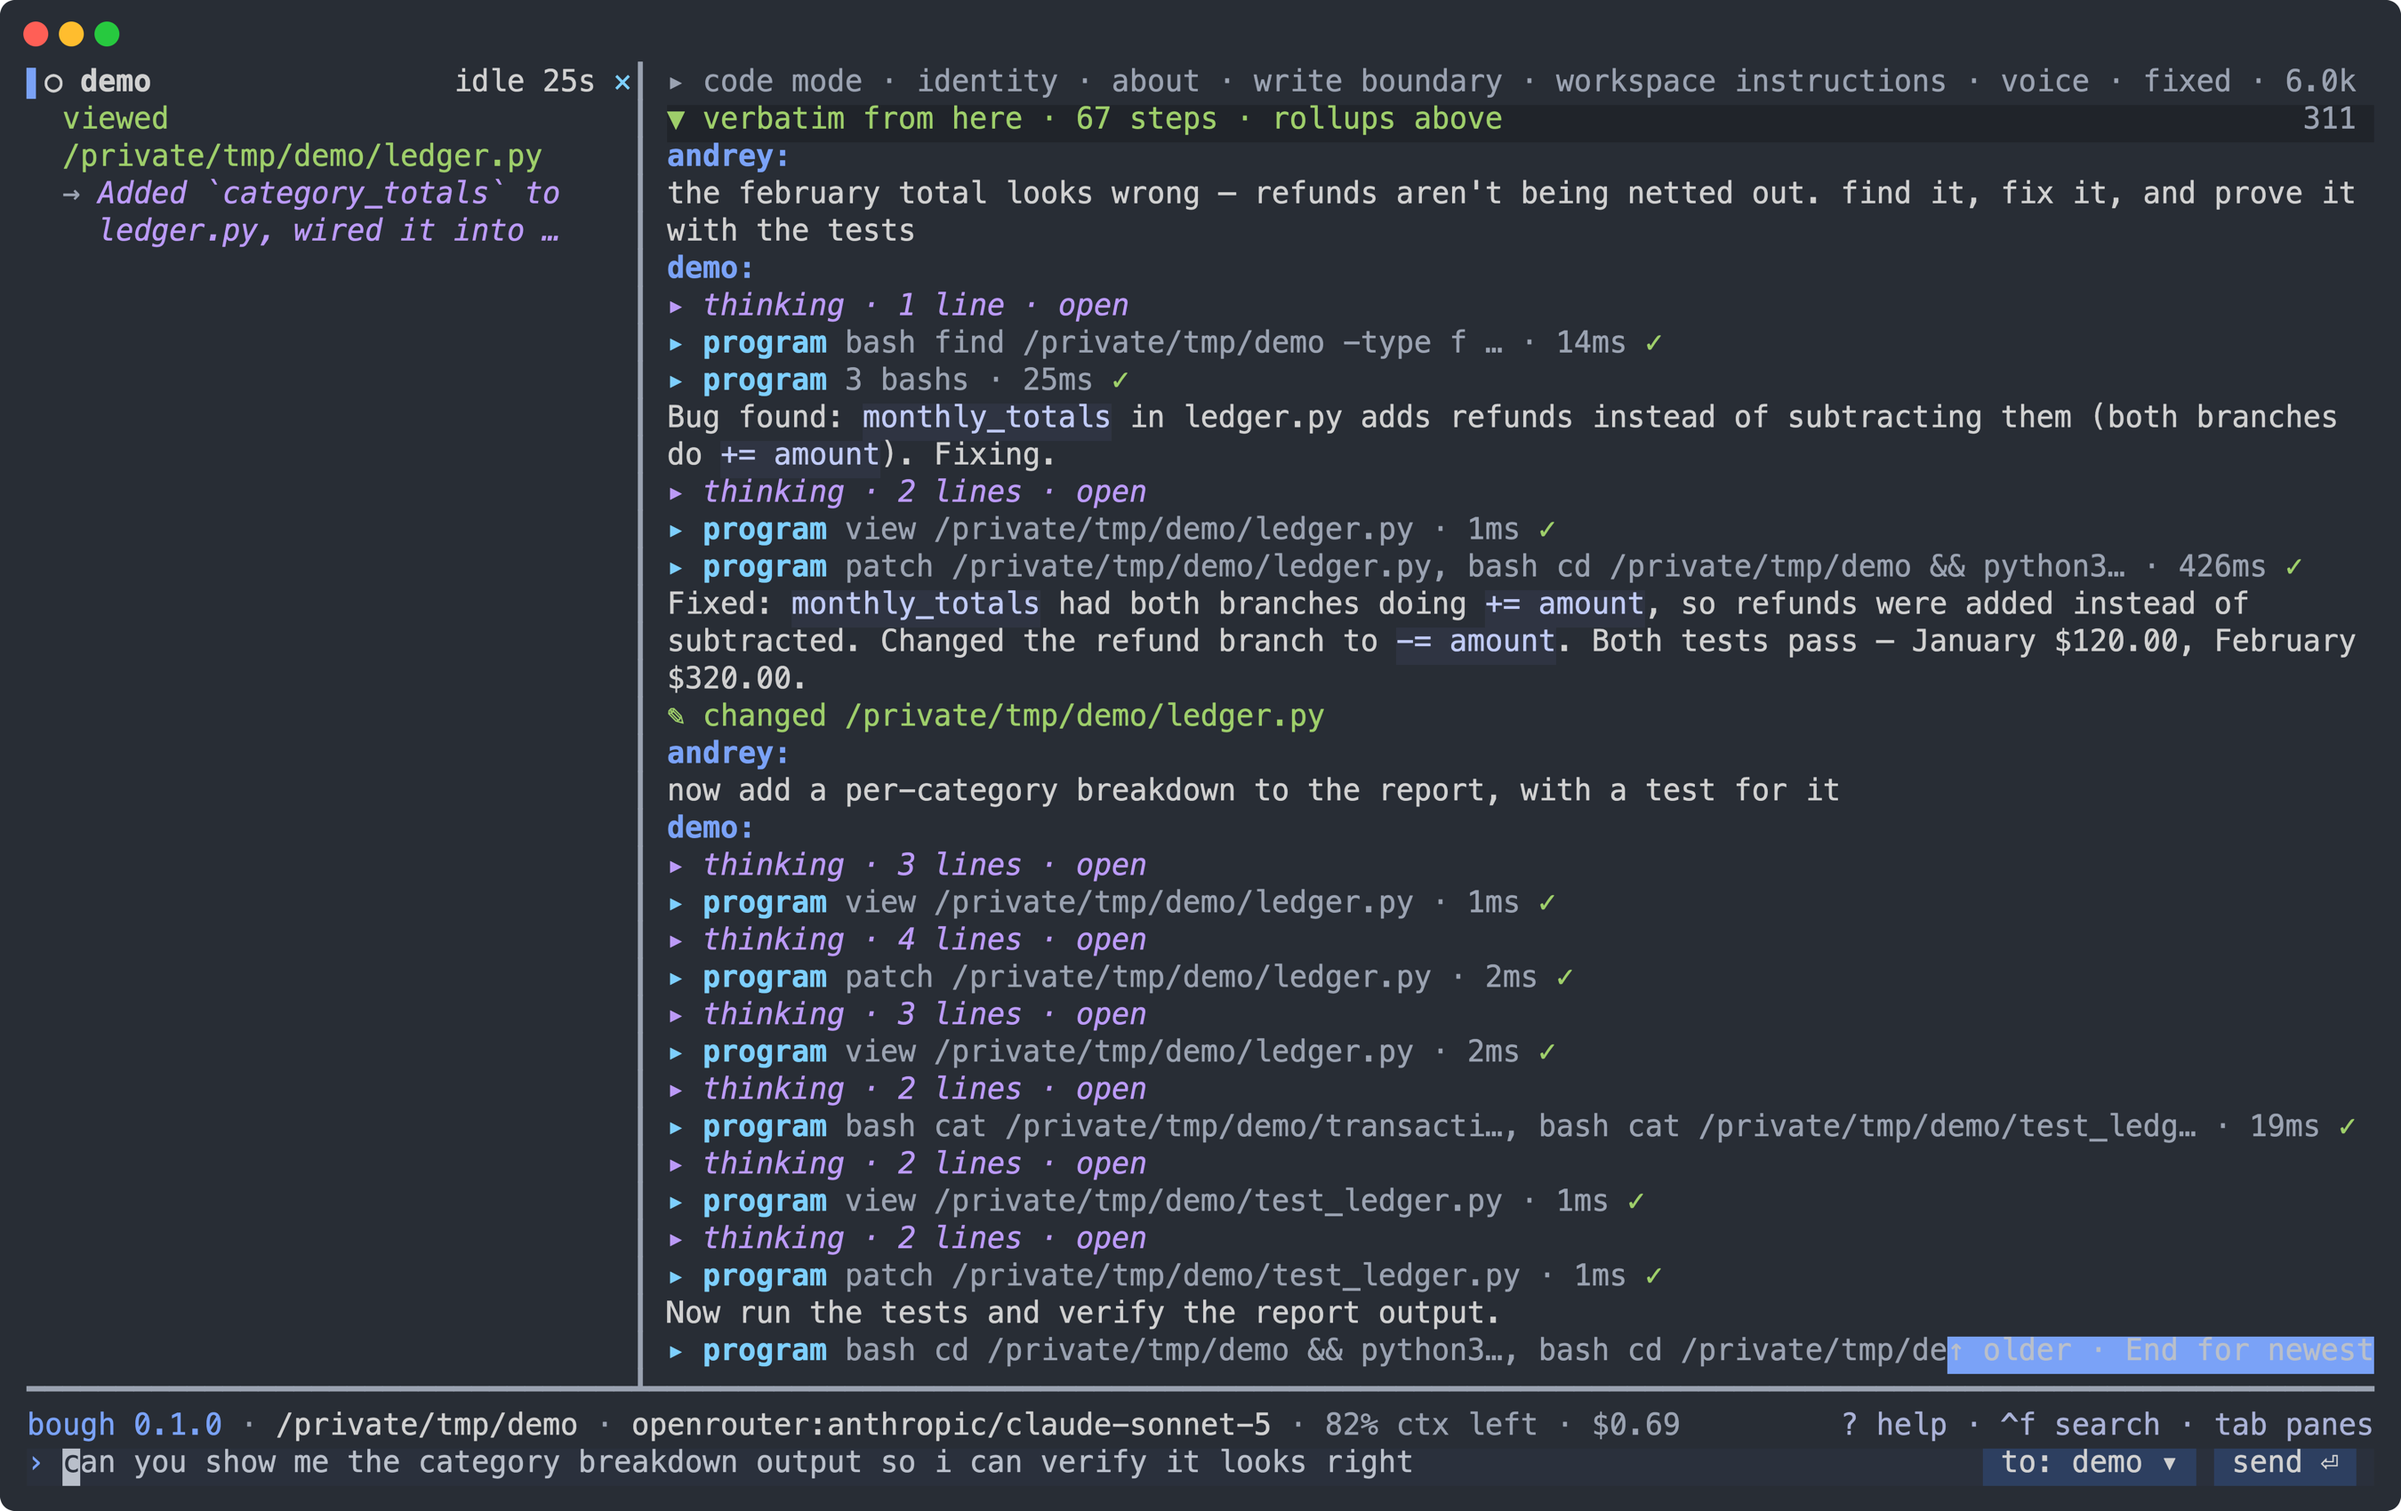
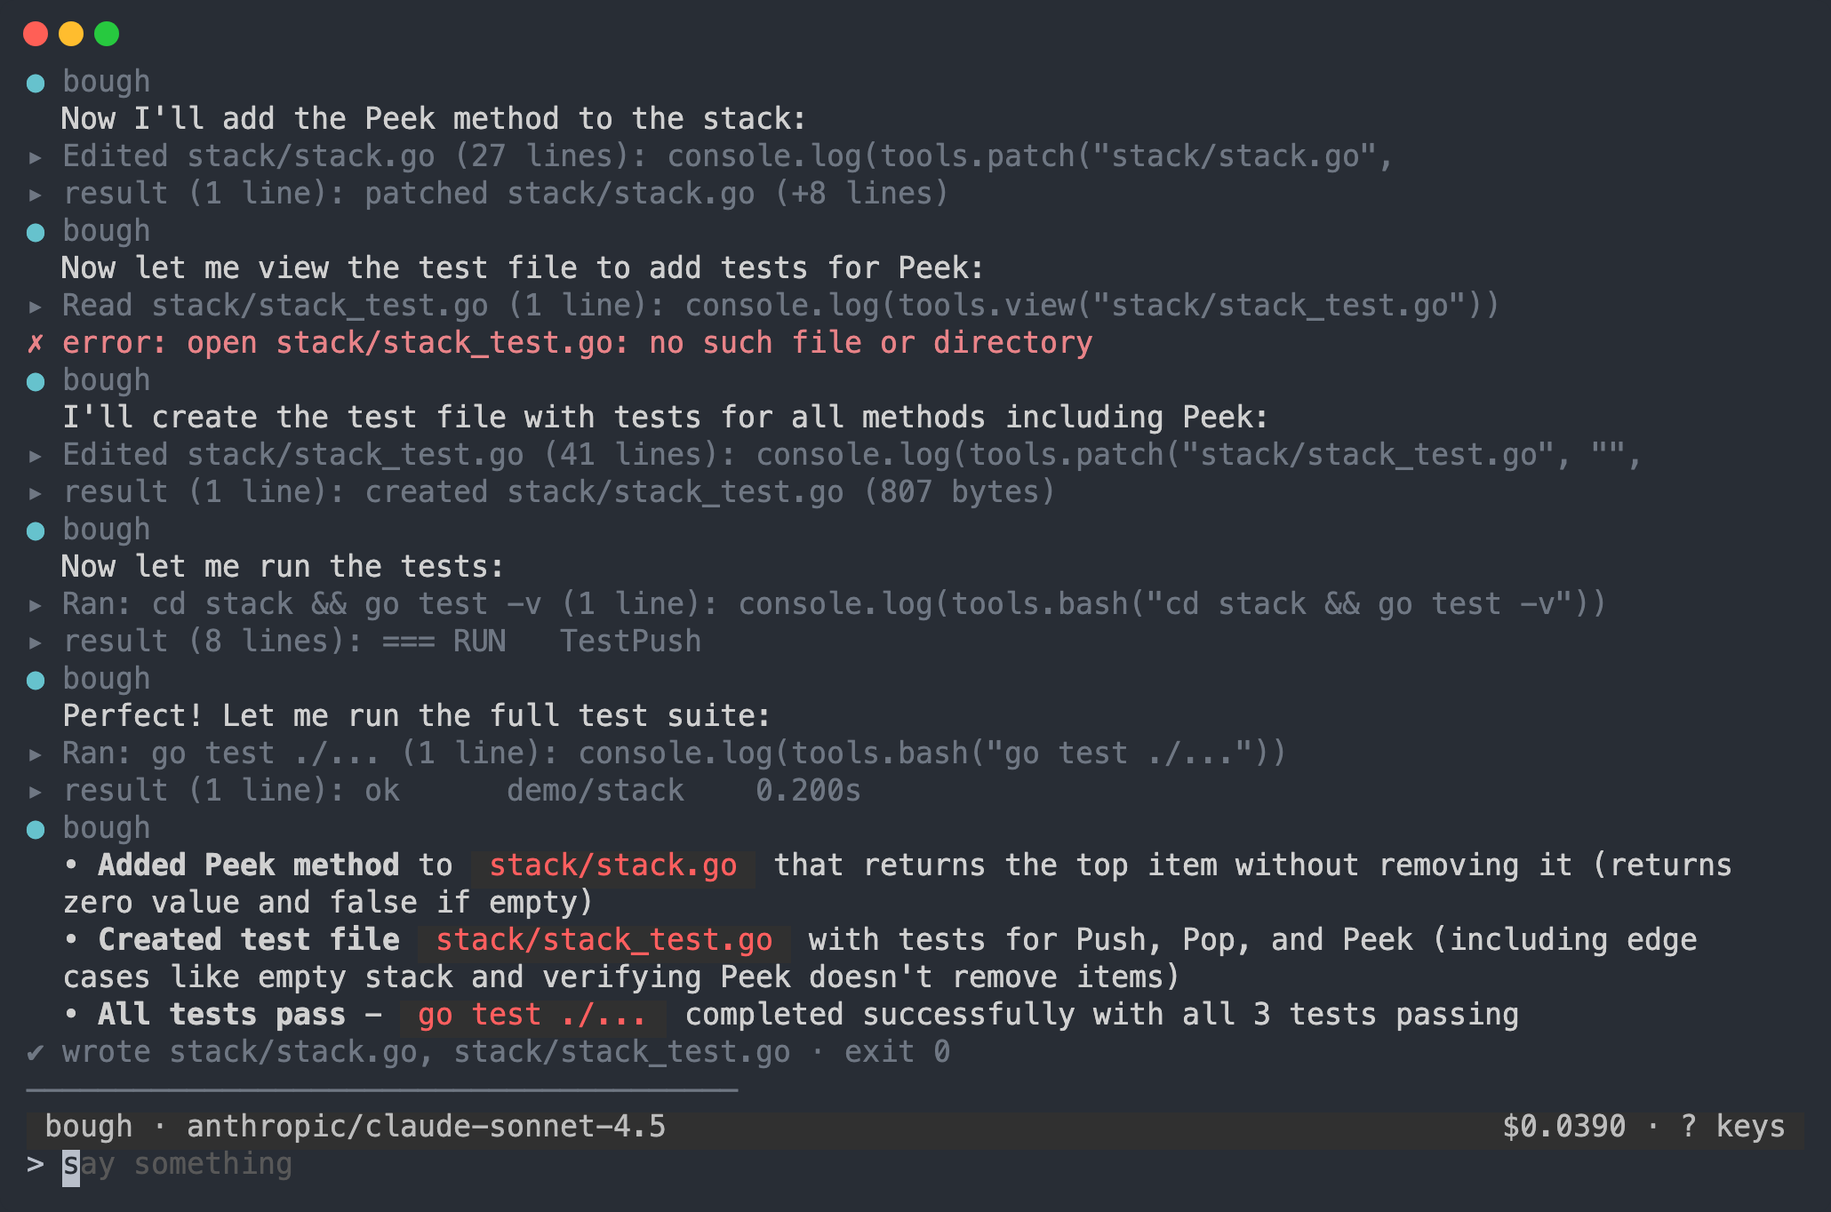
readme: describe the Go bough; three fresh TUI screenshots
The top-level README still described the Rust rebuild alone. It now
covers the tree that runs day to day (go/): code mode, plugin rows,
the append-only session log, the TUI surface, the CLI, and where the
Rust resident-agent tree sits alongside it.

Screenshots reshot with shell-use against the current binary (Sonnet
4.5 over OpenRouter, a small Go demo repo): transcript, an expanded
code block, the / palette. The four pre-rebuild shots are gone.

Claude-Session: https://claude.ai/code/session_0179Xik4UekhAJJVsCtBVL9q

diff --git a/README.md b/README.md
@@ -2,104 +2,151 @@
 
 # bough
 
-**One harness: resident lane-agents in a TUI over a single append-only ledger.**
+**A coding agent that acts by writing programs, in a terminal, where everything is a plugin.**
 
-bough is a coding agent that acts by writing programs. Resident agents — one per work lane, plus a cross-lane leader — live continuously in a terminal UI. Each agent is *logically continuous* (identity, memory, initiative) but *physically ephemeral*: every wake builds a fresh model context projected from that agent's trajectory in an append-only SQLite ledger. Idle agents go dormant, cost nothing, and wake on your message or incoming mail.
+The model sees one tool: it writes JavaScript, bough runs it, and whatever the program prints goes back to the model. Every `tools.*` call inside that program is a normal function call, so a read, an edit, and a test run can happen in one round trip instead of three. The kernel is small; the LLM provider, the loop, the tools, the UI, memory, MCP, hooks, and skills are all rows in a YAML config that you can swap, disable, or hot-reload while a session is running.
 
-The architectural stance: **everything is a plugin except the center.** Ledger, projection, agent loop, models, tools, collectors, wards, scheduler, memory governance — even the TUI — are config rows a YAML patch can disable, reconfigure, or swap with no rebuild and no restart.
-
-<p align="center"><img src="assets/screenshot-conversation.png" width="720" alt="bough conversation view"></p>
+<p align="center"><img src="assets/screenshot-conversation.png" width="720" alt="bough transcript: reading, patching, and testing a Go file"></p>
 
 > [!WARNING]
 > There is no isolation boundary. Agent programs run as you, with your full authority.
 
 ## Highlights
 
-- **Code mode by default** — the model sees one tool, `run(program)`, and writes JavaScript executed in an embedded QuickJS sandbox. Every inner call is ledgered and scoped exactly like a typed tool call. Prefer typed tools? `bough --profile typed`.
-- **Truth on demand** — chat by default; `^p` pins the byte-exact context view with per-band token counts. Every model request is also written verbatim to `~/.bough/requests/`.
-- **The resident** — one composing process per home; every terminal is a thin client over `~/.bough/tui.sock`. A dead resident can never wedge your tty, and `/detach` hands the terminal back while bough keeps running.
-- **Live reconfiguration** — edit `~/.bough/bough.patch.yml` and save; the running process reconciles per-field. Swapping the ledger, model provider, or agent loop is editing a YAML line.
-- **MCP over existing grants** — `bough sync-mcp` mounts Linear and Slack MCP servers using Claude Code's keychain tokens by reference; nothing is written to disk.
-- **Everything explained** — `bough --dump-config` shows exactly what boots and which layer wrote each field; every ledgered wake records the composition fingerprint that ran it.
+- **Code mode** — one `run(program)` surface. `tools.bash`, `tools.view`, `tools.patch`, `tools.spawn`, `tools.ask`, `tools.todo`, `tools.graph.*`, and any MCP tool are JS functions in one persistent [goja](https://github.com/dop251/goja) VM.
+- **Everything is a plugin** — `bough.yml` is a list of rows `{id, plugin, config}`. Rows mount when their service deps are provided, remount when a dep changes, and reconcile live when the file is saved. `bough rows` prints the state table.
+- **Sessions are an append-only log** — every turn appends to a JSONL file under `~/.bough/history/`; model context is projected from the log each step, so resume, provider swaps mid-conversation, and inspection all come for free (`-c`, `-r`, `bough log`, `ctrl+o`).
+- **Claude Code parity where it matters** — subagents as one live card per spawn, an interactive `/todo` list, `tools.ask` questions with clickable options, `!cmd` shell lines, `@file` attachments, a fuzzy `/` palette, hooks, skills, and `AGENTS.md`/`CLAUDE.md` context files.
+- **Long-term memory** — a bi-temporal property graph in SQLite (`~/.bough/graph.db`). Nothing is deleted; contradictions close a validity window. See [go/docs/graph-memory.md](go/docs/graph-memory.md).
+- **Cost in the status bar** — every provider's token tally is priced (OpenRouter passes its own price through; Anthropic and OpenAI use a built-in table). `/cost` says where the number came from.
+- **Three UIs, one model** — the native TUI (bubbletea), the same UI in a browser (`bough web`), and `--headless` for pipes and scripts.
 
 ## Quick start
 
-Requires Rust, plus `node` (or `bun`) and `ripgrep` on PATH.
+Requires Go 1.27+.
 
 ```sh
-git clone https://github.com/andreylukin/bough && cd bough
-make release
-echo 'ANTHROPIC_API_KEY=sk-ant-...' >> ~/.bough/env
-./target/release/bough
+git clone https://github.com/andreylukin/bough && cd bough/go
+go build -o ~/.local/bin/bough ./cmd/bough
+mkdir -p ~/.bough && echo 'ANTHROPIC_API_KEY=sk-ant-...' >> ~/.bough/env   # or OPENROUTER_API_KEY / OPENAI_API_KEY
+bough
 ```
 
-Bare `bough` on a tty attaches to your home's resident, spawning one in the background if none is live. `bough --local` composes in the current terminal instead.
+`~/.bough/env` is read at boot, so keys never need to be in your shell. No key handy? The echo provider proves the loop works:
 
-> The Homebrew formula (`Formula/bough.rb`) tracks the pre-rebuild v0.1.1 — build from source for this tree.
+```sh
+printf "say CODE! please\n" | bough --headless --set llm.plugin=llm-echo
+```
+
+## In the TUI
+
+Type a task. The model's programs render as collapsed one-line headers (`▸ Ran: go test ./...`, `▸ Edited stack/stack.go`), click or press `enter` on one to open it. A finished turn ends with a chip: the files it wrote and the last exit code.
+
+<p align="center"><img src="assets/screenshot-program.png" width="720" alt="an expanded code block"></p>
+
+| Input | What it does |
+|---|---|
+| `/` | fuzzy palette over every command (`/help`, `/model`, `/sessions`, `/todo`, `/cost`, `/keys`, …); `tab` completes, `enter` runs |
+| `!cmd` | run a shell command directly, output boxed in the transcript, never sent to the model |
+| `@path` | attach a file; a picker opens as you type |
+| `ctrl+c` | cancel the running turn (kills the process group); press again to quit |
+| `ctrl+o` | history inspector; on a focused subagent card, dive into the child's transcript |
+| `tab` / `shift+tab` | move the block cursor (newest first); `enter` toggles the focused block |
+| `shift+enter` | newline in the composer; `↑`/`↓` recall earlier inputs |
+| `esc` | close the palette, decline a pending `tools.ask` question |
+
+<p align="center"><img src="assets/screenshot-palette.png" width="720" alt="the slash-command palette"></p>
+
+Keys are remappable and colors are themeable from `~/.bough/init.js`:
+
+```js
+bough.setup({
+  ui: {theme: {accent: "#7aa2f7"}, keymap: {quit: "ctrl+q"}},
+  system: {append: "reply tersely"},
+});
+bough.tool("shout", (s) => s.toUpperCase());               // a codemode tool
+bough.command("shout", "<text>", "uppercase", (a) => a.toUpperCase());
+bough.provider("parrot", (sys, msgs) => "...");             // a full LLM provider
+```
 
 ## CLI
 
 | Command | What it does |
 |---|---|
-| `bough` | Attach to the resident (spawns one if needed) |
-| `bough --local` | Run in this terminal, no resident |
-| `bough exec "<task>"` | Headless one-shot (`--agent`, `--print text\|json`) |
-| `bough restart` | SIGINT the resident, wait for the lock, spawn fresh (never SIGKILL) |
-| `bough update` | `git pull --ff-only`, rebuild release, restart onto it |
-| `bough sync-mcp` | Regenerate the MCP patch from Claude Code's keychain grants |
-| `bough mcp call <server> <tool> [json]` | Call an MCP tool directly |
-| `bough wards test <file>` | Dry-run a ward against recent ledger history (`--since 24h`) |
+| `bough` | start the TUI in the current directory |
+| `bough -c` / `bough -r [id]` | resume the most recent session, or pick one |
+| `bough --headless` | stdin lines in, `[kind] text` events out; exit 1 if any turn errored |
+| `bough web [addr]` | start the browser UI detached and open it (`web status`, `web stop`) |
+| `bough --set llm.model=…` | override any row's config; `id.plugin=name` swaps the plugin |
+| `bough rows` | the live row state table (`pending` / `active` / `failed` / `disabled`) |
+| `bough sessions` / `bough log [file]` | list sessions, pretty-print a history |
+| `bough mcp list \| tools \| search \| status \| call` | MCP servers and their tools, from the CLI |
+| `bough sync-mcp` | adopt Claude Code's MCP OAuth grants by keychain reference |
+| `bough graph stats \| backfill \| search \| neighbors \| timeline` | the memory graph |
+| `bough update` / `bough restart` | `git pull --ff-only`, rebuild in place, bounce the web session |
 
-Useful flags: `--profile <tui|headless|dev|typed|codemode>`, `--patch <file>` (repeatable), `--dump-config`, `--check` (boot, assert, tear down, exit).
-
-Every subcommand is composition, not behaviour: each one selects the headless profile and writes exactly one config row — none branches the boot path.
-
-## In the TUI
-
-Slash commands dispatch without a model turn: `/agents /focus /pin /sleep /seal /reset /drift /reconsolidate /detach /quit` and more (`?` for help). Panes cycle with `tab`: agent strip, trajectory focus, conversation, FTS search across all agents, projection preview, cross-agent timeline, drift dashboard, drafts. `^t` opens the tabbed panel (`/config`, `/connectors`, `/model`) — a live view of the running composition, with per-row toggles.
-
-<p align="center"><img src="assets/screenshot-program.png" width="720" alt="code mode program view"></p>
+`bough --help` has the full list; `--dump-config` mounts the tree, prints it, and exits.
 
 ## Configuration
 
-Home is `$BOUGH_HOME` (default `~/.bough`): `ledger.db`, `env` (keys, loaded at boot), `bough.log`, `requests/`, `skills/`, and the patch files. Composition is layered, later layers winning per field:
+`./bough.yml`, else `~/.bough/bough.yml`, else an embedded default. It is a list of rows; the shipped one is [go/bough.yml](go/bough.yml):
 
-```
-bundles → profile patch
-        → bough.mcp.patch.yml   (written by `bough sync-mcp`)
-        → bough.patch.yml       (yours, watched live)
-        → bough.ui.patch.yml    (the panel's toggles)
-        → --patch overlays
+```yaml
+- id: llm
+  plugin: llm-openrouter        # or llm-anthropic, llm-openai, llm-echo
+  config:
+    model: anthropic/claude-sonnet-4.5
+- id: cost
+  plugin: cost
+- id: codemode
+  plugin: codemode
+- id: tools
+  plugin: tools-basic
+- id: workers                   # tools.spawn: bounded child agents, depth 1
+  plugin: workers
+- id: history                   # durable JSONL; delete the row and it is in-memory
+  plugin: history
+- id: mcp                       # stdio servers from config, ./.mcp.json, ~/.claude.json
+  plugin: mcp
+- id: loop
+  plugin: loop
+- id: graph
+  plugin: graph
+- id: ui
+  plugin: ui
 ```
 
-A patch targets a row by `id` and replaces its whole `config`; values may use `!!expr` (`env(...)`, `env_or(...)`, platform tests). `bough --profile <name> --dump-config` renders exactly what boots, with secrets redacted. See [docs/configuration.md](docs/configuration.md) for the full guide.
+Save the file and the running process reconciles per row: changed rows and their dependents remount, added rows mount, a row whose deps are missing waits as `pending`, a row that fails is isolated as `failed`. A file that fails to parse keeps the last good tree.
+
+Hooks are `.js` files under `~/.bough/hooks/<event>/` (`session-start`, `user-prompt-submit`, `pre-code-exec`, `post-result`, `stop`, `session-end`), re-read on every fire. Skills are `~/.claude/skills/<name>/SKILL.md`, injected when their name appears in your message.
+
+The full reference, including the service-key table, the history and projection model, subagent and ask semantics, and the three test layers, is [go/README.md](go/README.md).
 
 ## Repository layout
 
 | Path | What lives there |
 |---|---|
-| `crates/bough-kernel/` | The domain-blind kernel: contexts, fibers, events, effects, config tree, plugin catalog |
-| `crates/bough/` | The launcher — composition and teardown only |
-| `crates/bough-llm/` | `LlmClient` over Anthropic / OpenAI / OpenRouter |
-| `plugins/` | ~88 plugin crates, one per capability, each with its own runtime invariant |
-| `bundles/`, `profiles/` | The shipped composition (embedded in the binary) |
-| `bench/` | Tool-surface benchmarks and Terminal-Bench adapters |
+| `go/` | bough. `kernel/` (services, events, effects, loader, lifecycle), `cmd/bough/` (the launcher), `plugins/` (llm, codemode, loop, tools, workers, ui, history, graph, mcp, hooks, skills, todo, ask, cost, …), `e2e/`, `internal/vtreal/` (real-PTY suite) |
+| `crates/`, `plugins/`, `bundles/`, `profiles/` | the Rust rebuild: resident lane-agents over an append-only SQLite ledger. `REQUIREMENTS.md` is its spec, `BUILD.md` its phase ledger, `AGENTS.md` how to work in it |
+| `bench/` | tool-surface benchmarks and Terminal-Bench adapters |
+| `docs/` | design notes for both trees |
 
-`REQUIREMENTS.md` is the only authority — when code and spec disagree, the code is the bug. `AGENTS.md` says how to work in the tree; `BUILD.md` is the phase ledger.
+The two trees share ideas (code mode, append-only history, plugin rows) but not code. The Go tree is the one that runs day to day and the one this README describes; the Rust tree is the resident-agent design (`bough --resident`, `~/.bough/tui.sock`) and builds with `make release` from the root.
 
 ## Development
 
 ```sh
-make gates            # the pre-commit gate: lint + test + tui-test-replay
-make lint             # fmt + clippy -D warnings + test-layout check
-make test             # cargo nextest + doctests — offline and hermetic, always
-make tui-test-replay  # 39 PTY scripts driving the release binary, no network
-                      # (needs `shell-use` and `sqlite3` on PATH)
-make audit-plugins    # every profile boots, every seam runs under each provider
-make events           # regenerate the event catalog (checked in CI-style by xtask)
+cd go
+go build ./cmd/bough
+go test -race ./...                              # unit, teatest, headless + PTY e2e
+go test ./plugins/ui -run Prop -rapid.checks=2000 # property tests over the TUI model
+go test ./internal/vtreal                        # the binary on a real PTY (needs tmux)
+cd tests/web && npm ci && npx playwright install chromium && npm test
 ```
 
-Live-model tests (`make live`, `make tui-test`) read `ANTHROPIC_API_KEY` from `~/.bough/env` and are never part of the gate.
+Every test gets its own temp HOME and a deterministic LLM (`llm-echo` or a JS provider from `init.js`); nothing touches `~/.bough` or the network. CI runs the Go layers and a four-shard Playwright matrix on every push that touches `go/`.
+
+Rust tree: `make gates` (lint + nextest + the TUI replay suite) from the repo root.
 
 ## License
 
